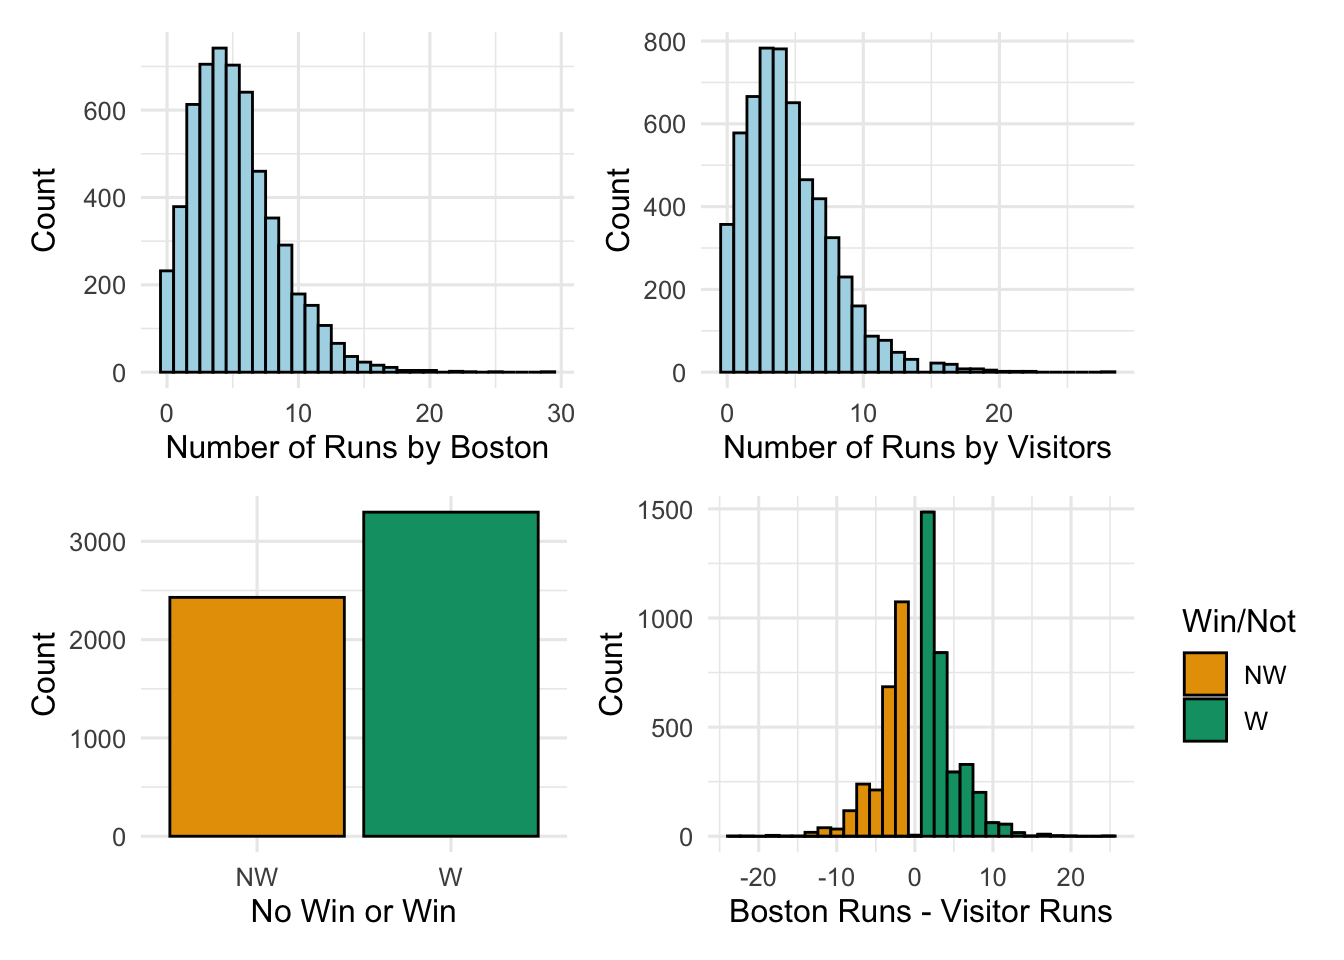
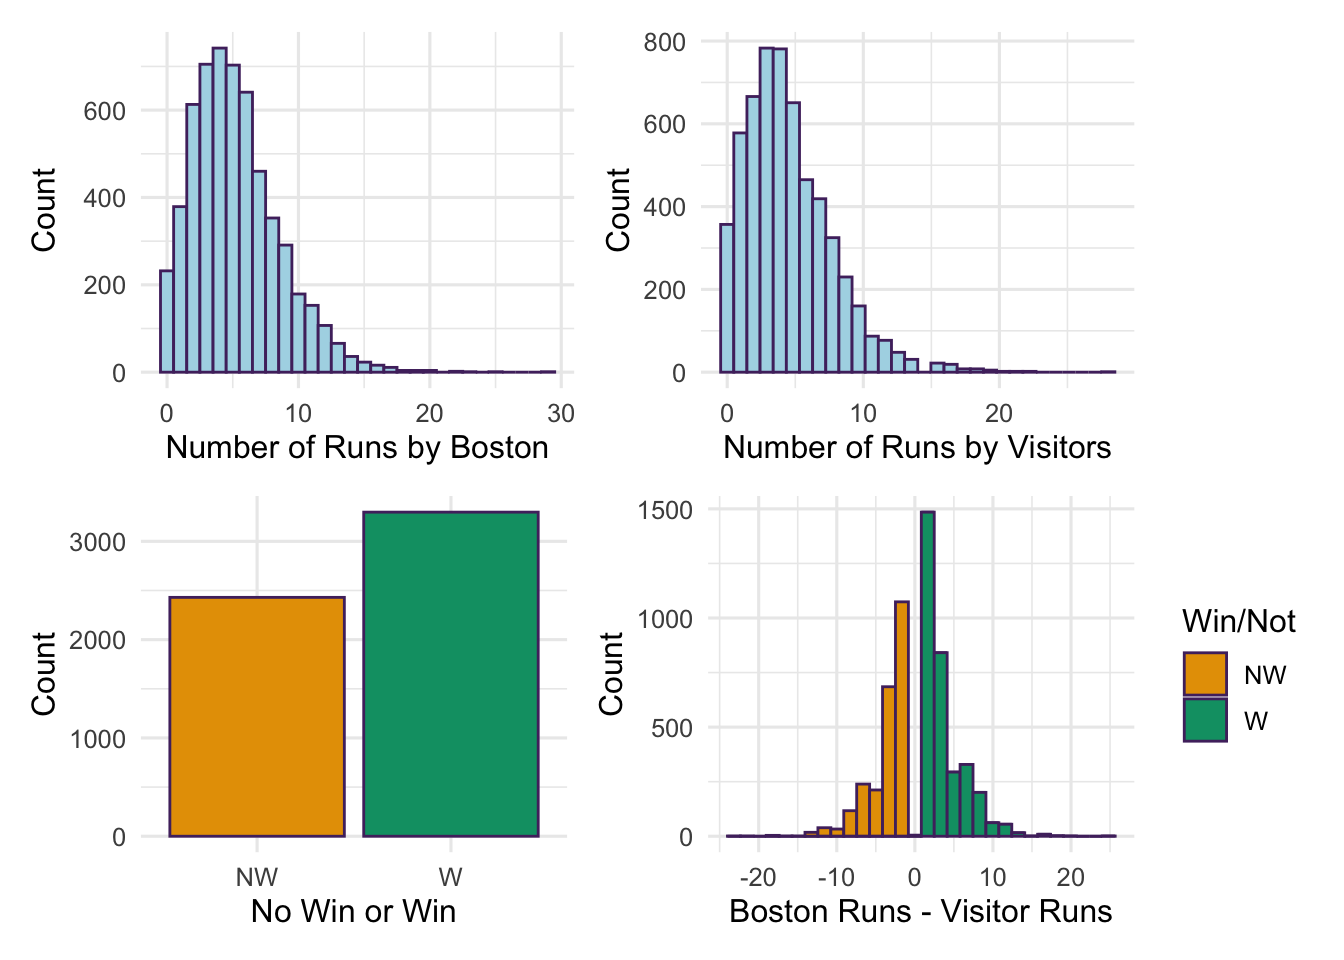
update

diff --git a/report/index.html b/report/index.html
@@ -567,19 +567,19 @@ div.csl-indent {
 <summary>Code</summary>
 <div class="sourceCode cell-code" id="cb7"><pre class="sourceCode r code-with-copy"><code class="sourceCode r"><span id="cb7-1"><a href="#cb7-1" aria-hidden="true" tabindex="-1"></a>ra_1 <span class="ot">&lt;-</span> boston_game_weather <span class="sc">%&gt;%</span></span>
 <span id="cb7-2"><a href="#cb7-2" aria-hidden="true" tabindex="-1"></a>  <span class="fu">ggplot</span>(<span class="fu">aes</span>(<span class="at">x=</span>hm_runs)) <span class="sc">+</span> </span>
-<span id="cb7-3"><a href="#cb7-3" aria-hidden="true" tabindex="-1"></a>  <span class="fu">geom_histogram</span>(<span class="at">color=</span><span class="st">"black"</span>,<span class="at">fill=</span><span class="st">"lightblue"</span>) <span class="sc">+</span> </span>
+<span id="cb7-3"><a href="#cb7-3" aria-hidden="true" tabindex="-1"></a>  <span class="fu">geom_histogram</span>(<span class="at">color=</span><span class="st">"#512d6d"</span>,<span class="at">fill=</span><span class="st">"lightblue"</span>) <span class="sc">+</span> </span>
 <span id="cb7-4"><a href="#cb7-4" aria-hidden="true" tabindex="-1"></a>  <span class="fu">xlab</span>(<span class="st">"Number of Runs by Boston"</span>) <span class="sc">+</span> </span>
 <span id="cb7-5"><a href="#cb7-5" aria-hidden="true" tabindex="-1"></a>  <span class="fu">ylab</span>(<span class="st">"Count"</span>)</span>
 <span id="cb7-6"><a href="#cb7-6" aria-hidden="true" tabindex="-1"></a><span class="co"># Number of visitor runs</span></span>
 <span id="cb7-7"><a href="#cb7-7" aria-hidden="true" tabindex="-1"></a>ra_2 <span class="ot">&lt;-</span> boston_game_weather <span class="sc">%&gt;%</span></span>
 <span id="cb7-8"><a href="#cb7-8" aria-hidden="true" tabindex="-1"></a>  <span class="fu">ggplot</span>(<span class="fu">aes</span>(<span class="at">x=</span>vis_runs)) <span class="sc">+</span> </span>
-<span id="cb7-9"><a href="#cb7-9" aria-hidden="true" tabindex="-1"></a>  <span class="fu">geom_histogram</span>(<span class="at">color=</span><span class="st">"black"</span>,<span class="at">fill=</span><span class="st">"lightblue"</span>) <span class="sc">+</span> </span>
+<span id="cb7-9"><a href="#cb7-9" aria-hidden="true" tabindex="-1"></a>  <span class="fu">geom_histogram</span>(<span class="at">color=</span><span class="st">"#512d6d"</span>,<span class="at">fill=</span><span class="st">"lightblue"</span>) <span class="sc">+</span> </span>
 <span id="cb7-10"><a href="#cb7-10" aria-hidden="true" tabindex="-1"></a>  <span class="fu">xlab</span>(<span class="st">"Number of Runs by Visitors"</span>) <span class="sc">+</span> </span>
 <span id="cb7-11"><a href="#cb7-11" aria-hidden="true" tabindex="-1"></a>  <span class="fu">ylab</span>(<span class="st">"Count"</span>)</span>
 <span id="cb7-12"><a href="#cb7-12" aria-hidden="true" tabindex="-1"></a><span class="co"># Boston runs - Visitor runs</span></span>
 <span id="cb7-13"><a href="#cb7-13" aria-hidden="true" tabindex="-1"></a>ra_3 <span class="ot">&lt;-</span> boston_game_weather <span class="sc">%&gt;%</span></span>
 <span id="cb7-14"><a href="#cb7-14" aria-hidden="true" tabindex="-1"></a>  <span class="fu">ggplot</span>(<span class="fu">aes</span>(<span class="at">x=</span>score_diff,<span class="at">fill=</span>wl)) <span class="sc">+</span> </span>
-<span id="cb7-15"><a href="#cb7-15" aria-hidden="true" tabindex="-1"></a>  <span class="fu">geom_histogram</span>(<span class="at">color=</span><span class="st">"black"</span>) <span class="sc">+</span> </span>
+<span id="cb7-15"><a href="#cb7-15" aria-hidden="true" tabindex="-1"></a>  <span class="fu">geom_histogram</span>(<span class="at">color=</span><span class="st">"#512d6d"</span>) <span class="sc">+</span> </span>
 <span id="cb7-16"><a href="#cb7-16" aria-hidden="true" tabindex="-1"></a>  <span class="fu">scale_fill_manual</span>(<span class="at">values =</span> <span class="fu">c</span>(<span class="st">"#E69F00"</span>,<span class="st">"#009E73"</span>)) <span class="sc">+</span> </span>
 <span id="cb7-17"><a href="#cb7-17" aria-hidden="true" tabindex="-1"></a>  <span class="fu">labs</span>(<span class="at">x =</span> <span class="st">"Boston Runs - Visitor Runs"</span>,</span>
 <span id="cb7-18"><a href="#cb7-18" aria-hidden="true" tabindex="-1"></a>       <span class="at">y =</span> <span class="st">"Count"</span>,</span>
@@ -587,7 +587,7 @@ div.csl-indent {
 <span id="cb7-20"><a href="#cb7-20" aria-hidden="true" tabindex="-1"></a><span class="co"># Win or Not Win</span></span>
 <span id="cb7-21"><a href="#cb7-21" aria-hidden="true" tabindex="-1"></a>ra_4 <span class="ot">&lt;-</span> boston_game_weather <span class="sc">%&gt;%</span></span>
 <span id="cb7-22"><a href="#cb7-22" aria-hidden="true" tabindex="-1"></a>  <span class="fu">ggplot</span>(<span class="fu">aes</span>(<span class="at">x=</span>wl,<span class="at">fill=</span>wl)) <span class="sc">+</span> </span>
-<span id="cb7-23"><a href="#cb7-23" aria-hidden="true" tabindex="-1"></a>  <span class="fu">geom_bar</span>(<span class="at">color=</span><span class="st">"black"</span>) <span class="sc">+</span> </span>
+<span id="cb7-23"><a href="#cb7-23" aria-hidden="true" tabindex="-1"></a>  <span class="fu">geom_bar</span>(<span class="at">color=</span><span class="st">"#512d6d"</span>) <span class="sc">+</span> </span>
 <span id="cb7-24"><a href="#cb7-24" aria-hidden="true" tabindex="-1"></a>  <span class="fu">scale_fill_manual</span>(<span class="at">values =</span> <span class="fu">c</span>(<span class="st">"#E69F00"</span>,<span class="st">"#009E73"</span>)) <span class="sc">+</span> </span>
 <span id="cb7-25"><a href="#cb7-25" aria-hidden="true" tabindex="-1"></a>  <span class="fu">theme</span>(<span class="at">legend.position =</span> <span class="st">"none"</span>) <span class="sc">+</span></span>
 <span id="cb7-26"><a href="#cb7-26" aria-hidden="true" tabindex="-1"></a>  <span class="fu">labs</span>(<span class="at">x =</span> <span class="st">"No Win or Win"</span>,</span>
@@ -610,13 +610,13 @@ div.csl-indent {
 <summary>Code</summary>
 <div class="sourceCode cell-code" id="cb8"><pre class="sourceCode r code-with-copy"><code class="sourceCode r"><span id="cb8-1"><a href="#cb8-1" aria-hidden="true" tabindex="-1"></a>rb_1 <span class="ot">&lt;-</span> boston_game_weather <span class="sc">%&gt;%</span></span>
 <span id="cb8-2"><a href="#cb8-2" aria-hidden="true" tabindex="-1"></a>  <span class="fu">ggplot</span>(<span class="fu">aes</span>(<span class="at">x=</span>duration)) <span class="sc">+</span> </span>
-<span id="cb8-3"><a href="#cb8-3" aria-hidden="true" tabindex="-1"></a>  <span class="fu">geom_histogram</span>(<span class="at">color=</span><span class="st">"black"</span>,<span class="at">fill=</span><span class="st">"lightblue"</span>) <span class="sc">+</span> </span>
+<span id="cb8-3"><a href="#cb8-3" aria-hidden="true" tabindex="-1"></a>  <span class="fu">geom_histogram</span>(<span class="at">color=</span><span class="st">"#512d6d"</span>,<span class="at">fill=</span><span class="st">"lightblue"</span>) <span class="sc">+</span> </span>
 <span id="cb8-4"><a href="#cb8-4" aria-hidden="true" tabindex="-1"></a>  <span class="fu">labs</span>(<span class="at">x =</span> <span class="st">"Game Duration"</span>,</span>
 <span id="cb8-5"><a href="#cb8-5" aria-hidden="true" tabindex="-1"></a>       <span class="at">y =</span> <span class="st">"Count"</span>)</span>
 <span id="cb8-6"><a href="#cb8-6" aria-hidden="true" tabindex="-1"></a><span class="co"># Game attendances</span></span>
 <span id="cb8-7"><a href="#cb8-7" aria-hidden="true" tabindex="-1"></a>rb_2 <span class="ot">&lt;-</span> boston_game_weather <span class="sc">%&gt;%</span></span>
 <span id="cb8-8"><a href="#cb8-8" aria-hidden="true" tabindex="-1"></a>  <span class="fu">ggplot</span>(<span class="fu">aes</span>(<span class="at">x=</span>attendance)) <span class="sc">+</span> </span>
-<span id="cb8-9"><a href="#cb8-9" aria-hidden="true" tabindex="-1"></a>  <span class="fu">geom_histogram</span>(<span class="at">color=</span><span class="st">"black"</span>,<span class="at">fill=</span><span class="st">"lightblue"</span>) <span class="sc">+</span> </span>
+<span id="cb8-9"><a href="#cb8-9" aria-hidden="true" tabindex="-1"></a>  <span class="fu">geom_histogram</span>(<span class="at">color=</span><span class="st">"#512d6d"</span>,<span class="at">fill=</span><span class="st">"lightblue"</span>) <span class="sc">+</span> </span>
 <span id="cb8-10"><a href="#cb8-10" aria-hidden="true" tabindex="-1"></a>  <span class="fu">labs</span>(<span class="at">x =</span> <span class="st">"Game Attendance"</span>,</span>
 <span id="cb8-11"><a href="#cb8-11" aria-hidden="true" tabindex="-1"></a>       <span class="at">y =</span> <span class="st">"Count"</span>)</span>
 <span id="cb8-12"><a href="#cb8-12" aria-hidden="true" tabindex="-1"></a></span>
@@ -642,19 +642,19 @@ div.csl-indent {
 <summary>Code</summary>
 <div class="sourceCode cell-code" id="cb9"><pre class="sourceCode r code-with-copy"><code class="sourceCode r"><span id="cb9-1"><a href="#cb9-1" aria-hidden="true" tabindex="-1"></a>w_1 <span class="ot">&lt;-</span> boston_game_weather <span class="sc">%&gt;%</span></span>
 <span id="cb9-2"><a href="#cb9-2" aria-hidden="true" tabindex="-1"></a>  <span class="fu">ggplot</span>(<span class="fu">aes</span>(<span class="at">x=</span>humid)) <span class="sc">+</span> </span>
-<span id="cb9-3"><a href="#cb9-3" aria-hidden="true" tabindex="-1"></a>  <span class="fu">geom_histogram</span>(<span class="at">color=</span><span class="st">"black"</span>,<span class="at">fill=</span><span class="st">"lightblue"</span>) <span class="sc">+</span> </span>
+<span id="cb9-3"><a href="#cb9-3" aria-hidden="true" tabindex="-1"></a>  <span class="fu">geom_histogram</span>(<span class="at">color=</span><span class="st">"#512d6d"</span>,<span class="at">fill=</span><span class="st">"lightblue"</span>) <span class="sc">+</span> </span>
 <span id="cb9-4"><a href="#cb9-4" aria-hidden="true" tabindex="-1"></a>  <span class="fu">labs</span>(<span class="at">x =</span> <span class="st">"Humidity"</span>,</span>
 <span id="cb9-5"><a href="#cb9-5" aria-hidden="true" tabindex="-1"></a>       <span class="at">y =</span> <span class="st">"Count"</span>)</span>
 <span id="cb9-6"><a href="#cb9-6" aria-hidden="true" tabindex="-1"></a></span>
 <span id="cb9-7"><a href="#cb9-7" aria-hidden="true" tabindex="-1"></a>w_2 <span class="ot">&lt;-</span> boston_game_weather <span class="sc">%&gt;%</span></span>
 <span id="cb9-8"><a href="#cb9-8" aria-hidden="true" tabindex="-1"></a>  <span class="fu">ggplot</span>(<span class="fu">aes</span>(<span class="at">x=</span>tempF)) <span class="sc">+</span> </span>
-<span id="cb9-9"><a href="#cb9-9" aria-hidden="true" tabindex="-1"></a>  <span class="fu">geom_histogram</span>(<span class="at">color=</span><span class="st">"black"</span>,<span class="at">fill=</span><span class="st">"lightblue"</span>) <span class="sc">+</span> </span>
+<span id="cb9-9"><a href="#cb9-9" aria-hidden="true" tabindex="-1"></a>  <span class="fu">geom_histogram</span>(<span class="at">color=</span><span class="st">"#512d6d"</span>,<span class="at">fill=</span><span class="st">"lightblue"</span>) <span class="sc">+</span> </span>
 <span id="cb9-10"><a href="#cb9-10" aria-hidden="true" tabindex="-1"></a>  <span class="fu">labs</span>(<span class="at">x =</span> <span class="st">"Temperature"</span>,</span>
 <span id="cb9-11"><a href="#cb9-11" aria-hidden="true" tabindex="-1"></a>       <span class="at">y =</span> <span class="st">"Count"</span>)</span>
 <span id="cb9-12"><a href="#cb9-12" aria-hidden="true" tabindex="-1"></a></span>
 <span id="cb9-13"><a href="#cb9-13" aria-hidden="true" tabindex="-1"></a>w_3 <span class="ot">&lt;-</span> boston_game_weather <span class="sc">%&gt;%</span></span>
 <span id="cb9-14"><a href="#cb9-14" aria-hidden="true" tabindex="-1"></a>  <span class="fu">ggplot</span>(<span class="fu">aes</span>(<span class="at">x=</span>precip)) <span class="sc">+</span> </span>
-<span id="cb9-15"><a href="#cb9-15" aria-hidden="true" tabindex="-1"></a>  <span class="fu">geom_histogram</span>(<span class="at">color=</span><span class="st">"black"</span>,<span class="at">fill=</span><span class="st">"lightblue"</span>) <span class="sc">+</span> </span>
+<span id="cb9-15"><a href="#cb9-15" aria-hidden="true" tabindex="-1"></a>  <span class="fu">geom_histogram</span>(<span class="at">color=</span><span class="st">"#512d6d"</span>,<span class="at">fill=</span><span class="st">"lightblue"</span>) <span class="sc">+</span> </span>
 <span id="cb9-16"><a href="#cb9-16" aria-hidden="true" tabindex="-1"></a>  <span class="fu">labs</span>(<span class="at">x =</span> <span class="st">"Precipitation"</span>,</span>
 <span id="cb9-17"><a href="#cb9-17" aria-hidden="true" tabindex="-1"></a>       <span class="at">y =</span> <span class="st">"Count"</span>)</span>
 <span id="cb9-18"><a href="#cb9-18" aria-hidden="true" tabindex="-1"></a></span>
